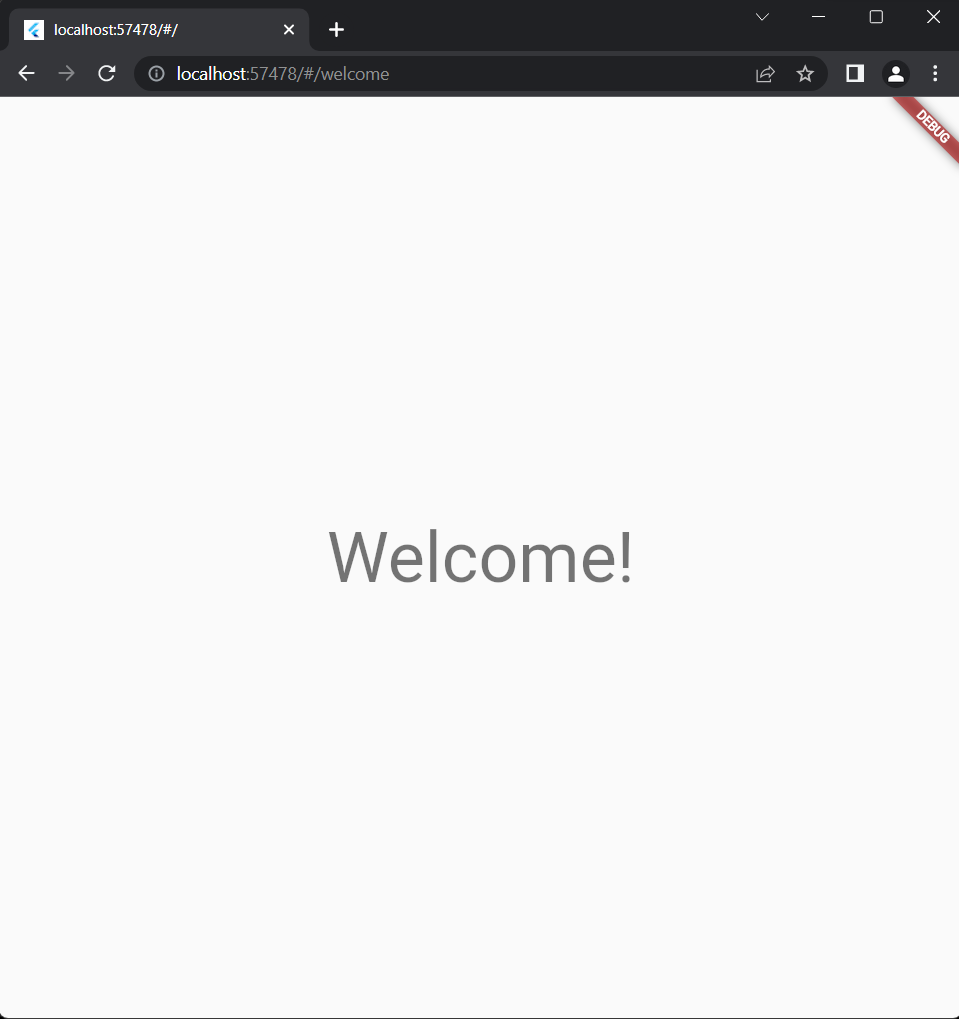
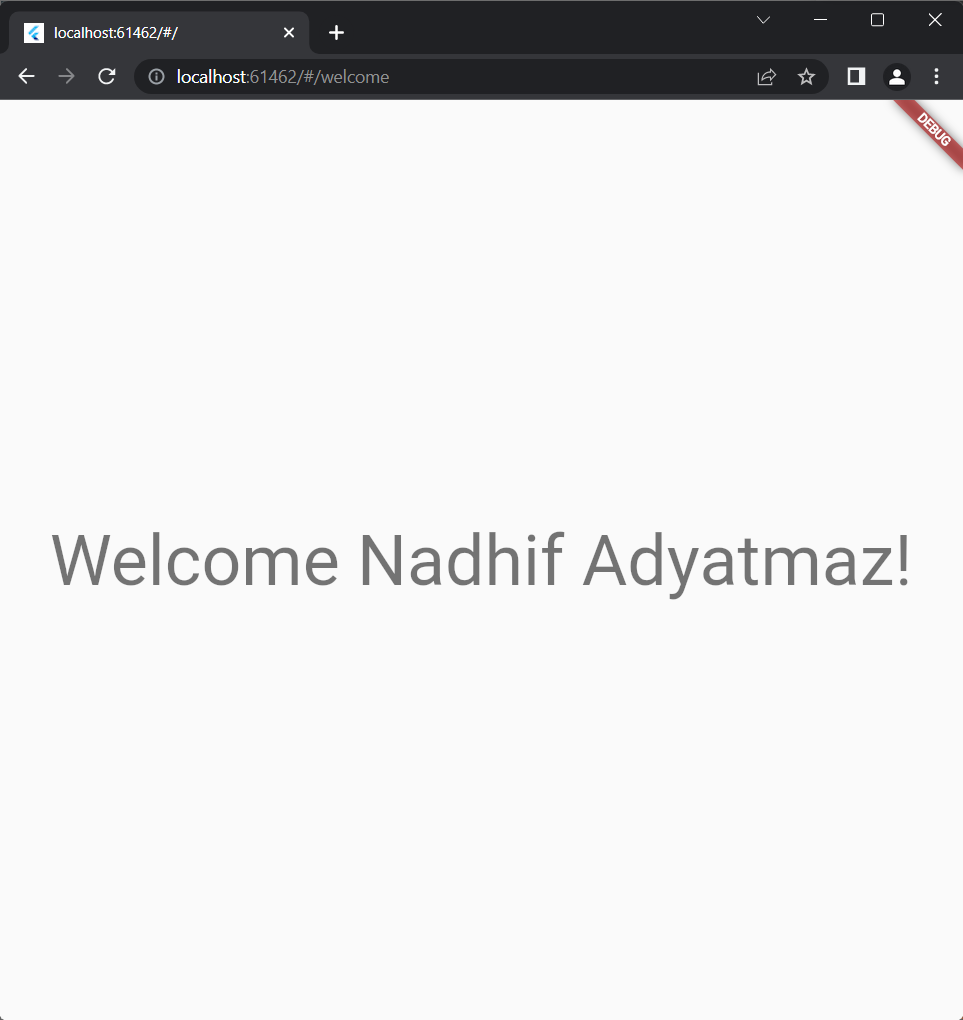
updated

diff --git a/lib/main.dart b/lib/main.dart
@@ -1,20 +1,4 @@
 import 'package:flutter/material.dart';
-
-import 'myPage/home.dart';
-import 'myPage/signupscreen.dart';
+import 'myPage/signupapp.dart';
 
 void main() => runApp(const SignUpApp());
-
-class SignUpApp extends StatelessWidget {
-  const SignUpApp({super.key});
-
-  @override
-  Widget build(BuildContext context) {
-    return MaterialApp(
-      routes: {
-        '/': (context) => const SignUpScreen(),
-        '/welcome': (context) => const WelcomeScreen(),
-      },
-    );
-  }
-}

diff --git a/lib/myPage/signupapp.dart b/lib/myPage/signupapp.dart
@@ -1,0 +1,17 @@
+import 'package:flutter/material.dart';
+import 'signupscreen.dart';
+import 'welcomescreen.dart';
+
+class SignUpApp extends StatelessWidget {
+  const SignUpApp({super.key});
+
+  @override
+  Widget build(BuildContext context) {
+    return MaterialApp(
+      routes: {
+        '/': (context) => const SignUpScreen(),
+        '/welcome': (context) => const WelcomeScreen(),
+      },
+    );
+  }
+}

diff --git a/lib/myPage/welcomescreen.dart b/lib/myPage/welcomescreen.dart
@@ -7,8 +7,8 @@ class WelcomeScreen extends StatelessWidget {
   Widget build(BuildContext context) {
     return Scaffold(
       body: Center(
-        child:
-            Text('Welcome!', style: Theme.of(context).textTheme.displayMedium),
+        child: Text('Welcome Nadhif Adyatmaz!',
+            style: Theme.of(context).textTheme.displayMedium),
       ),
     );
   }

diff --git a/test/widget_test.dart b/test/widget_test.dart
@@ -7,8 +7,7 @@
 
 import 'package:flutter/material.dart';
 import 'package:flutter_test/flutter_test.dart';
-
-import 'package:signin_example/main.dart';
+import 'package:signin_example/myPage/signupapp.dart';
 
 void main() {
   testWidgets('Counter increments smoke test', (WidgetTester tester) async {

diff --git a/README.md b/README.md
@@ -2,5 +2,6 @@
 
 Tugas 4 Flutter (Signin Example)
 
+![Page login](images/default.png)
 ![Page login](images/form.png)
 ![Page Home](images/dashboard.png)
